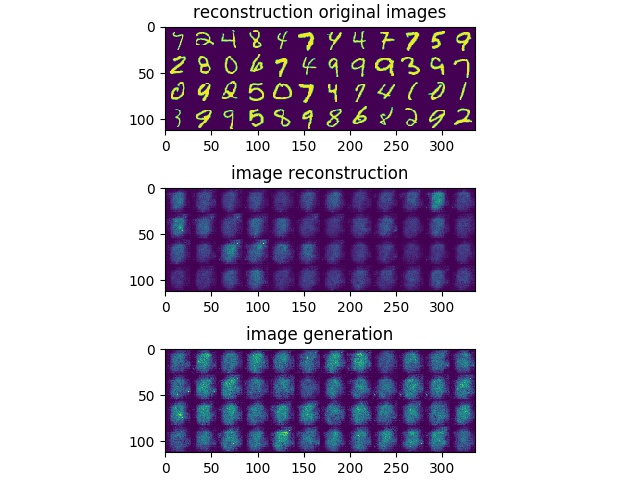
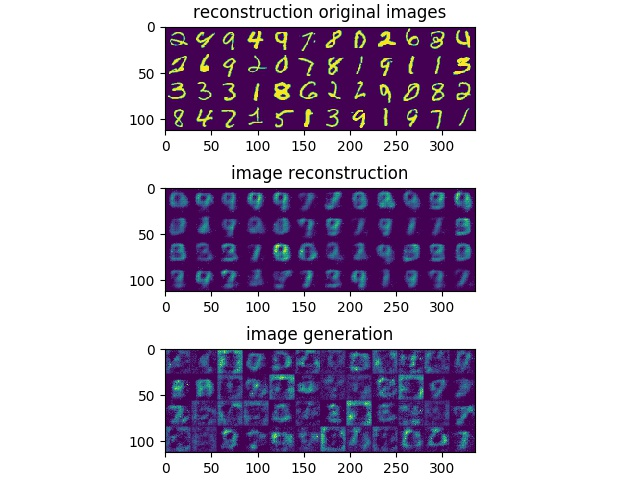
added more readme

Changed region(s): [[0.25, 0.7188, 0.75, 0.9688], [0.25, 0.0625, 0.75, 0.2812], [0.25, 0.375, 0.75, 0.625]]

diff --git a/main.py b/main.py
@@ -28,7 +28,7 @@ def encoder(pred, activation=tf.nn.relu, latent_size=32):
 		#if we use the log, we can be negative
 		latent_log_std = tf.layers.dense(pred, latent_size)
 		noise = tf.random_normal(tf.shape(latent_log_std))
-		latent = tf.exp(latent_log_std)*noise+latent_mean
+		latent = tf.exp(0.5*latent_log_std)*noise+latent_mean
 	return latent, shape_before_flatten, [latent_mean, latent_log_std]
 
 
@@ -81,11 +81,11 @@ def main():
 	datashape[0] = batch_size
 
 	#create placeholders
-	inputs_ph = tf.placeholder(tf.float32, shape=(None, *datashape[1:]))
-	outputs_ph = tf.placeholder(tf.float32)
-	inputs_set_ph = tf.placeholder(tf.float32)
-	outputs_set_ph = tf.placeholder(tf.float32)	
-	latents_ph = tf.placeholder(tf.float32, shape=(None, latent_size))
+	inputs_ph = tf.placeholder(tf.float32, shape=(None, *datashape[1:]), name="inputs_ph")
+	outputs_ph = tf.placeholder(tf.float32, name="outputs_ph")
+	inputs_set_ph = tf.placeholder(tf.float32, name="inputs_set_ph")
+	outputs_set_ph = tf.placeholder(tf.float32, name="outputs_set_ph")
+	latents_ph = tf.placeholder(tf.float32, shape=(None, latent_size), name="latents_ph")
 	iterator, next_element = gu.get_iterator(batch_size, inputs=inputs_set_ph, labels=outputs_set_ph)
 
 	#make model
@@ -98,7 +98,7 @@ def main():
 	#get loss
 	Recon_Loss = tf.reduce_mean(reconstruction_loss(inputs, pred_rec, loss_type))
 	Regul_Loss = tf.reduce_mean(kl_isonormal_loss(*dist_params))
-	kl_multiplier = tf.placeholder(tf.float32)
+	kl_multiplier = tf.placeholder(tf.float32, name="kl_multiplier")
 	loss = Recon_Loss+kl_multiplier*Regul_Loss
 
 	#training:
@@ -115,18 +115,24 @@ def main():
 				inputs_set_ph:images,
 				outputs_set_ph:labels,
 			})
+		kl_mul_val_step = 0
 		for step in range(num_steps):
 			data = sess.run(next_element)
 			feed_dict = {
 				inputs_ph:data["inputs"], 
 				outputs_ph:data["labels"],
-				kl_multiplier:min(step/1, 1)
 				}
 
 
-			loss_val, Regul_Loss_val, Recon_Loss_val = sess.run([loss, Regul_Loss, Recon_Loss], feed_dict=feed_dict)
+			Regul_Loss_val, Recon_Loss_val = sess.run([Regul_Loss, Recon_Loss], feed_dict=feed_dict)
 			
-			sess.run([train_op], feed_dict=feed_dict)
+			if Regul_Loss_val <0.070:
+				kl_mul_val_step = step
+			train_feed = feed_dict.copy()
+			train_feed[kl_multiplier] = 0#min((step - kl_mul_val_step)/50000, 1)
+
+			loss_val,_ = sess.run([loss, train_op], feed_dict=train_feed)
+
 
 			print("step: %d, \ttotal loss: %.3f, \tRegularization loss: %.3f, \tReconstruction loss: %.3f"%(step, loss_val, Regul_Loss_val, Recon_Loss_val))
 			if np.isnan(loss_val):
@@ -141,6 +147,7 @@ def main():
 				reconstruction = create_image_grid(recon_val[:48],[1,9])
 				generation = create_image_grid(gener_val[:48],[1,9])
 
+				plt.clf()
 				subplot = [3,1]
 				f, axarr = plt.subplots(*subplot, constrained_layout=True)
 				axarr[0].imshow(original_images)

diff --git a/params.py b/params.py
@@ -4,6 +4,7 @@ import tensorflow as tf
 import shutil
 #set paths
 logdir = "predictions"
+tblogdir = "tensorboard_logdir"
 def create_new_path(path):
 	if not os.path.exists(path):
 		os.mkdir(path)
@@ -28,6 +29,7 @@ model_params = {
 	"loss_type":[
 		gu.cross_entropy, 
 		tf.losses.mean_squared_error, 
-		tf.losses.absolute_difference][0],#choose one of these losses.
+		tf.losses.absolute_difference,
+		][0],#choose one of these losses.
 
 }

diff --git a/README.md b/README.md
@@ -47,6 +47,11 @@ reparameterization trick:
 ## Analysis:
 ### Loss Training
 #### Cross Entropy 
+The loss created from cross entropy is small, and gets overshadowed by the KLD loss. The result created is similar MSE loss. Shown below
+![Cross Entropy and KL Loss](images/CE_0.jpg)
+
+Though the pure auto encoder approach is not as good for reconstruction as MSE.
+![Cross Entropy](images/CE_1.jpg)
 
 
 #### MSE Reconstruction Loss
@@ -66,6 +71,11 @@ Using weight from 0 to 1 for the KLD loss as training happens seems to help this
 
 The picture above shows samples from the network after the KLD is slowly increased across 20000 steps. There is not much improvement, though we can see some other digits start to form, which means the MSE is starting to work. if we were to increae length of time of increase, we might get better results. Though, it seems that though the network is able to create reconstructions as an autoencoder, (MSE works on its own) the loss is hard to minimize compared to KLD loss.
 
+![Mean Squared Error with KLD Loss incremental increase, across 500000 steps, beginning (4000 steps)](images/MSE_2.jpg)
+
+The beginning of the training for the VAE with minimal KLD loss is shown above. The VAE is learning a deterministic representation for the training data, rather than a distribution over space, which is what we want.
+
+
 #### AD Reconstruction Loss
 ##### Normal training
 Similar to the MSE problem, the reconstruction seems to be even worse, though not really a concatenation of all images, it seems to take a more conservative approach, more of an average. The AD loss aims to decrease the penalty on perfect reconstruction of the image (pixels shifted right by a bit would be classified as incorrect, even though it is valid)
@@ -82,8 +92,8 @@ Though it is interesting to note that some reconstructions are very off from the
 ![Absolute Difference Error with KLD Loss incremental increase, across 20000 steps](images/AD_1.jpg)
 
 
-
-
+#### Tuning the KLD Loss
+We will use an isotropic normal as a prior for the KLD loss. There are two things that we can try, we can get the KL divergence of the 
 
 
 
